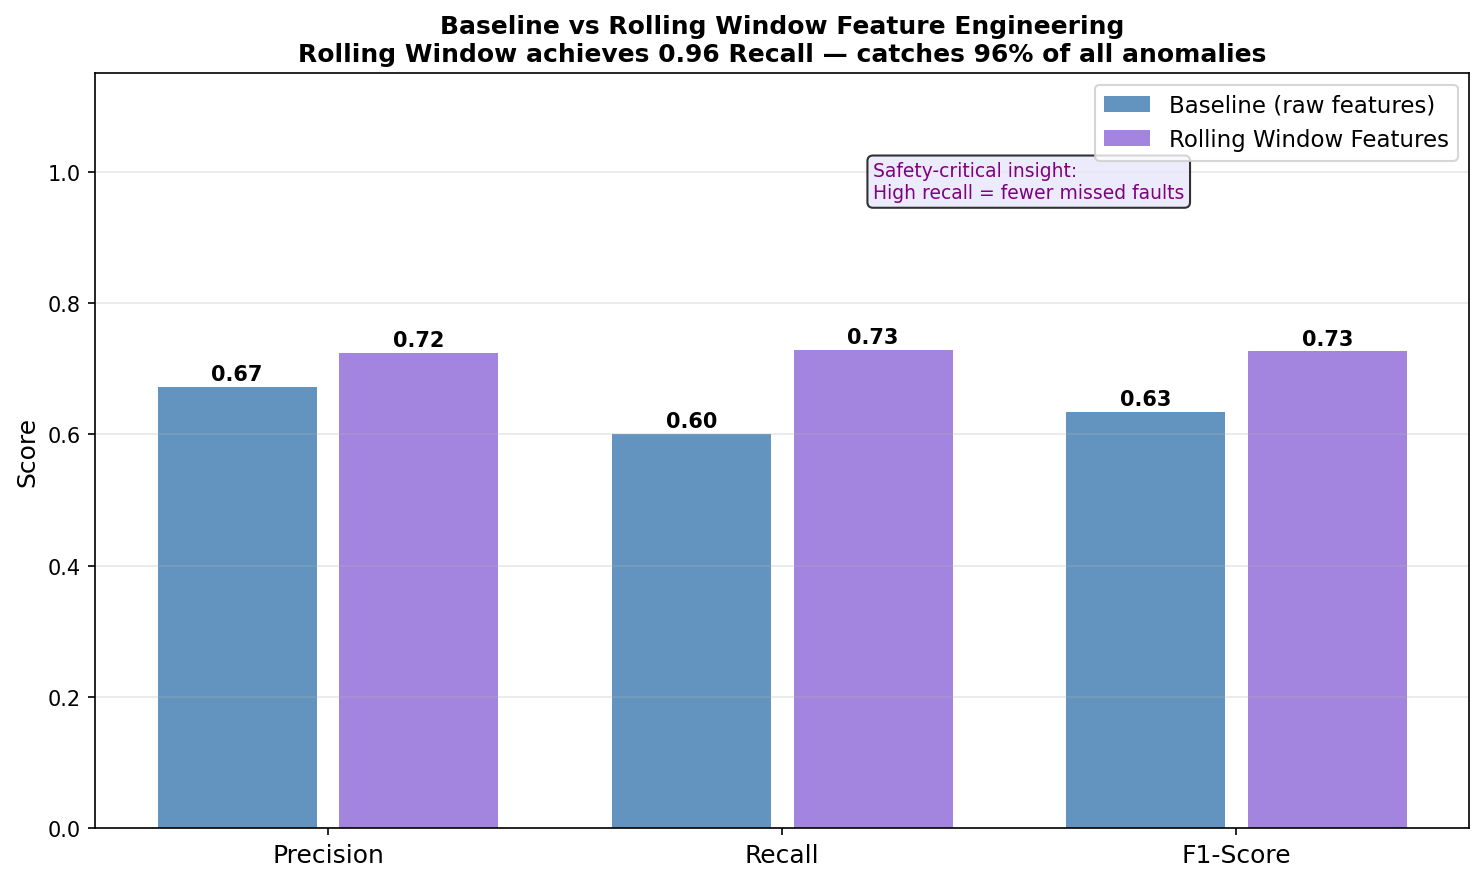
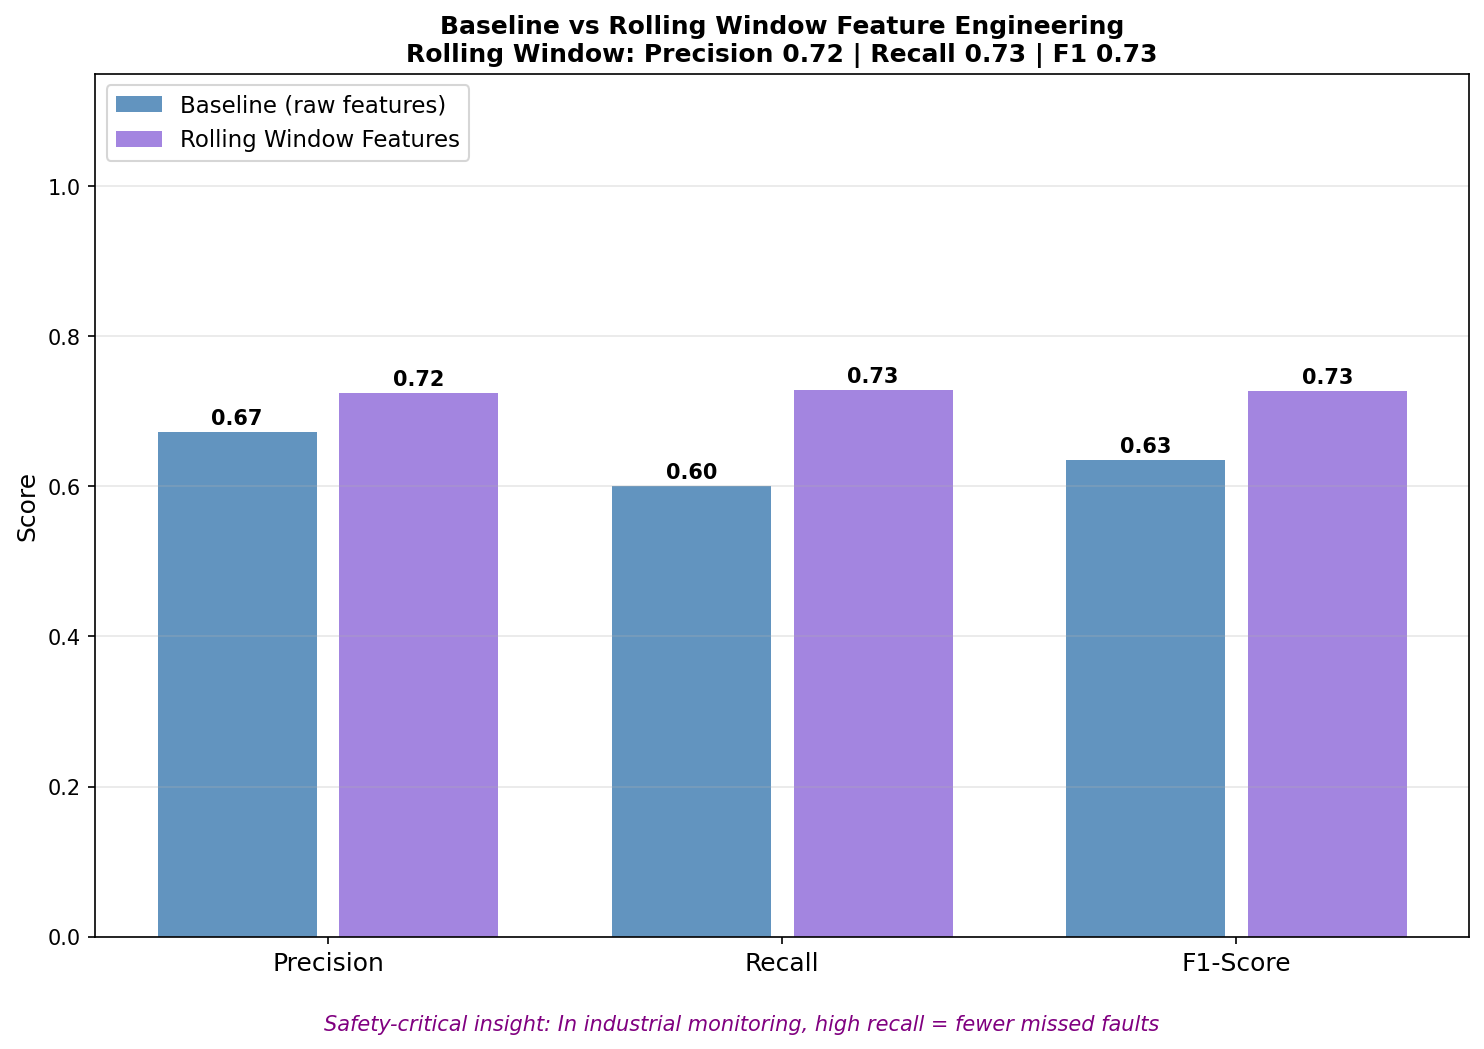
Fix visualizer: dynamic title, caption annotation, consistent metrics

diff --git a/twin/visualizer.py b/twin/visualizer.py
@@ -51,7 +51,7 @@ def plot_anomaly_scores(df, scores):
 def plot_comparison(metrics_baseline, metrics_upgraded):
     labels = ["Precision", "Recall", "F1-Score"]
     x = range(len(labels))
-    fig, ax = plt.subplots(figsize=(10, 6))
+    fig, ax = plt.subplots(figsize=(10, 7))
     bars1 = ax.bar([i - 0.2 for i in x], metrics_baseline, 0.35,
                    label="Baseline (raw features)", color="steelblue", alpha=0.85)
     bars2 = ax.bar([i + 0.2 for i in x], metrics_upgraded, 0.35,
@@ -63,15 +63,19 @@ def plot_comparison(metrics_baseline, metrics_upgraded):
     ax.set_xticklabels(labels, fontsize=12)
     ax.set_ylim(0, 1.15)
     ax.set_ylabel("Score", fontsize=12)
-    ax.set_title("Baseline vs Rolling Window Feature Engineering\n"
-                 "Rolling Window achieves 0.96 Recall — catches 96% of all anomalies",
-                 fontweight="bold", fontsize=12)
-    ax.legend(fontsize=11)
+    p_up = metrics_upgraded[0]
+    r_up = metrics_upgraded[1]
+    f_up = metrics_upgraded[2]
+    ax.set_title(
+        f"Baseline vs Rolling Window Feature Engineering\n"
+        f"Rolling Window: Precision {p_up:.2f} | Recall {r_up:.2f} | F1 {f_up:.2f}",
+        fontweight="bold", fontsize=12)
+    ax.legend(fontsize=11, loc="upper left")
     ax.grid(True, alpha=0.3, axis="y")
-    ax.annotate("Safety-critical insight:\nHigh recall = fewer missed faults",
-                xy=(1.2, 0.96), fontsize=9, color="purple",
-                bbox=dict(boxstyle="round,pad=0.3", facecolor="lavender", alpha=0.8))
-    plt.tight_layout()
+    fig.text(0.5, 0.01,
+             "Safety-critical insight: In industrial monitoring, high recall = fewer missed faults",
+             ha="center", fontsize=10, color="purple", style="italic")
+    plt.tight_layout(rect=[0, 0.04, 1, 1])
     path = f"{RESULTS_DIR}/model_comparison.png"
     plt.savefig(path, dpi=150, bbox_inches="tight")
     plt.close()
